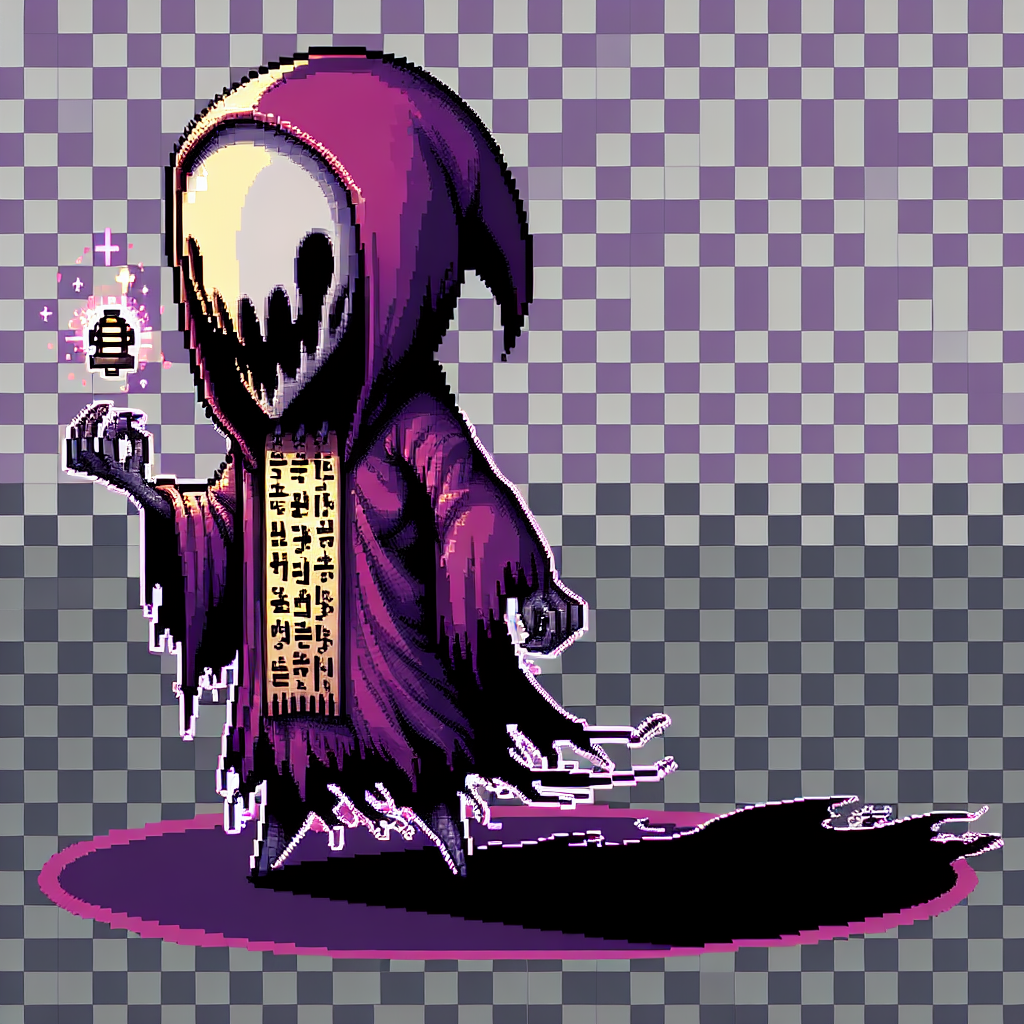
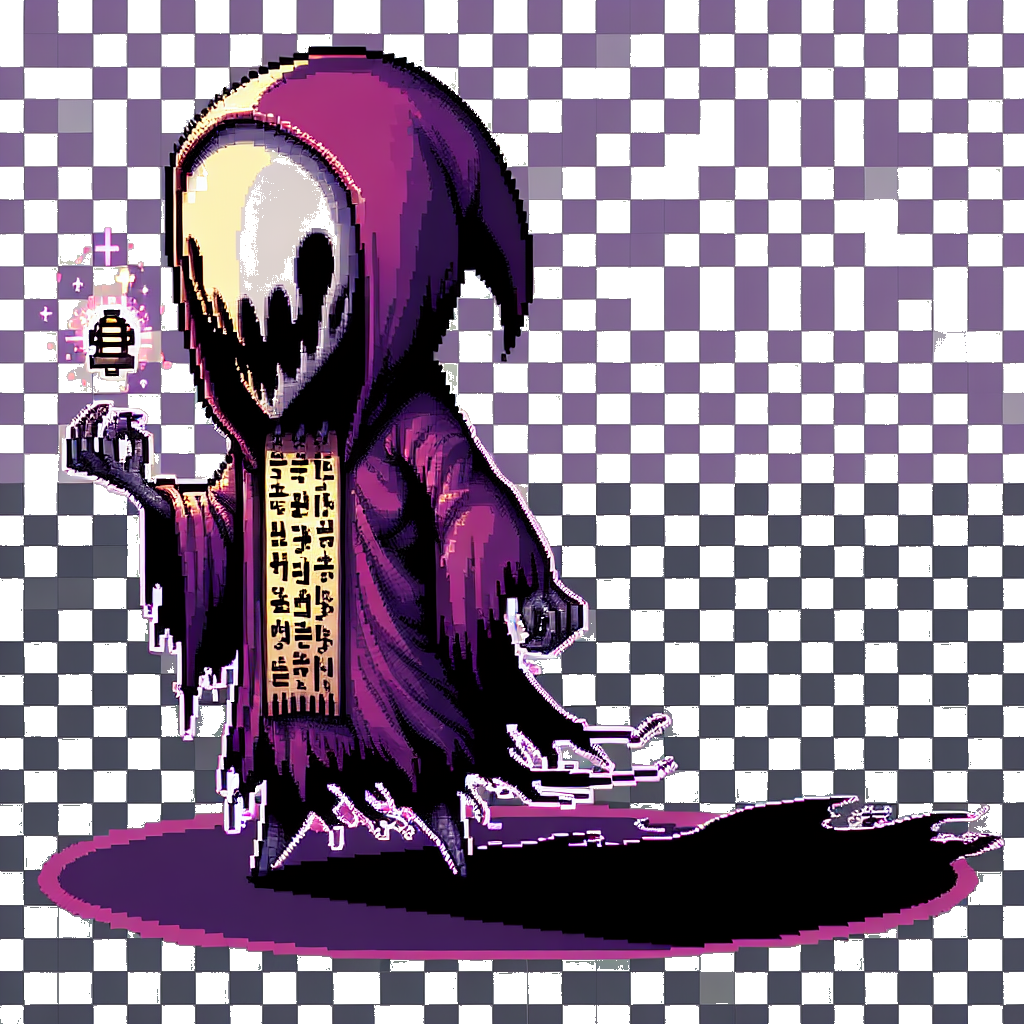
Sync 0.50.9 — caller sprite fix

diff --git a/js/hunt/hunt-tower-buffs.js b/js/hunt/hunt-tower-buffs.js
@@ -43,6 +43,13 @@
     time_warp:         { id:'time_warp',            rarity:'mythic',    weight:5,  name:'Time Warp',       desc:'All enemies move at 50% speed this floor',icon:'⌛', upgradeTo:null, minFloor:30 },
     wraithform:        { id:'wraithform',           rarity:'mythic',    weight:5,  name:'Wraithform',      desc:'8s of invulnerability; attacks phase through you',icon:'👁', upgradeTo:null, minFloor:30 },
     void_surge:        { id:'void_surge',           rarity:'mythic',    weight:5,  name:'Void Surge',      desc:'+80% damage and crit chance for this floor',icon:'🌌', upgradeTo:null, minFloor:30 },
+    // ── W-H-Buff-Catalog-Complete (+6 mythic, floor 31+ only) ──────────────
+    wraith_form:     { id:'wraith_form',     rarity:'mythic', mythic:true, weight:5, name:'Wraith Form',     desc:'Invulnerable for 5s every 30s',                 icon:'🌫', upgradeTo:null, minFloor:31, balanceTag:'invuln-cycle-5s-per-30s'     },
+    lantern_halo:    { id:'lantern_halo',    rarity:'mythic', mythic:true, weight:5, name:'Lantern Halo',    desc:'Passive AOE damage tick to all nearby enemies',  icon:'🕯', upgradeTo:null, minFloor:31, balanceTag:'aoe-tick-passive'             },
+    echo_strike:     { id:'echo_strike',     rarity:'mythic', mythic:true, weight:5, name:'Echo Strike',     desc:'Every 3rd hit triggers a copy attack on target', icon:'🔁', upgradeTo:null, minFloor:31, balanceTag:'3rd-hit-repeat'               },
+    soul_tether:     { id:'soul_tether',     rarity:'mythic', mythic:true, weight:5, name:'Soul Tether',     desc:'XP orbs auto-collect from anywhere on screen',   icon:'💫', upgradeTo:null, minFloor:31, balanceTag:'orb-vacuum-global'            },
+    lantern_wedding: { id:'lantern_wedding', rarity:'mythic', mythic:true, weight:5, name:'Lantern Wedding', desc:'Heal 1 HP per 4 enemies killed',                 icon:'🏮', upgradeTo:null, minFloor:31, balanceTag:'kill-heal-1per4'              },
+    empress_crown:   { id:'empress_crown',   rarity:'mythic', mythic:true, weight:5, name:'Empress Crown',   desc:'Gold drops doubled; enemy HP +50%',              icon:'👑', upgradeTo:null, minFloor:31, balanceTag:'gold-2x-enemy-hp-plus-50pct'  },
   };
 
   const RARITY_COLORS = {
@@ -53,8 +60,12 @@
   };
 
   // Roll `count` distinct cards from the eligible pool, weighted by rarity.
+  // Mythic cards are gated to floor > 30 regardless of individual minFloor.
   function roll(count, floor) {
-    const eligible = Object.values(CATALOG).filter(c => !c.minFloor || floor >= c.minFloor);
+    const eligible = Object.values(CATALOG).filter(c =>
+      (c.rarity !== 'mythic' || floor > 30) &&
+      (!c.minFloor || floor >= c.minFloor)
+    );
     // Build flat weighted pool
     const pool = [];
     for (const card of eligible) {
@@ -111,6 +122,13 @@
       case 'time_warp':         rt._enemySpeedMul = (rt._enemySpeedMul || 1) * 0.5; break;
       case 'wraithform':        rt._wraithformUntil = Date.now() + 8000; break;
       case 'void_surge':        rt._voidSurgeFloor = rt.floor; p._towerDmgPct = (p._towerDmgPct || 0) + 0.80; p._towerCritBonus = (p._towerCritBonus || 0) + 0.80; break;
+      // W-H-Buff-Catalog-Complete mythic (floor 31+)
+      case 'wraith_form':     rt._wraithFormCycle = true; break;
+      case 'lantern_halo':    rt._lanternHalo = true; break;
+      case 'echo_strike':     p._echoStrike = true; break;
+      case 'soul_tether':     p._soulTether = true; break;
+      case 'lantern_wedding': rt._lanternWedding = true; break;
+      case 'empress_crown':   rt._coinMultiplier = (rt._coinMultiplier || 1) * 2; rt._empressEnemyHpBonus = (rt._empressEnemyHpBonus || 0) + 0.5; break;
     }
     if (rt.buffStack) rt.buffStack.push(buffId);
     WG.Engine.emit('tower:buff-applied', { buffId, floor: rt.floor });

diff --git a/index.html b/index.html
@@ -414,7 +414,7 @@
 
 <script>
   window.WG = window.WG || {};
-  WG.BUILD = { name: 'Unlimited Chaos', version: '0.50.7-buff-catalog-complete-1778322112', built: '2026-05-09', anchor: 'Klovur' };
+  WG.BUILD = { name: 'Unlimited Chaos', version: '0.50.9-caller-sprite-fix-1778322686', built: '2026-05-08', anchor: 'Klovur' };
 
   WG.Boot = (function () {
     const overlay = document.getElementById('boot-overlay');